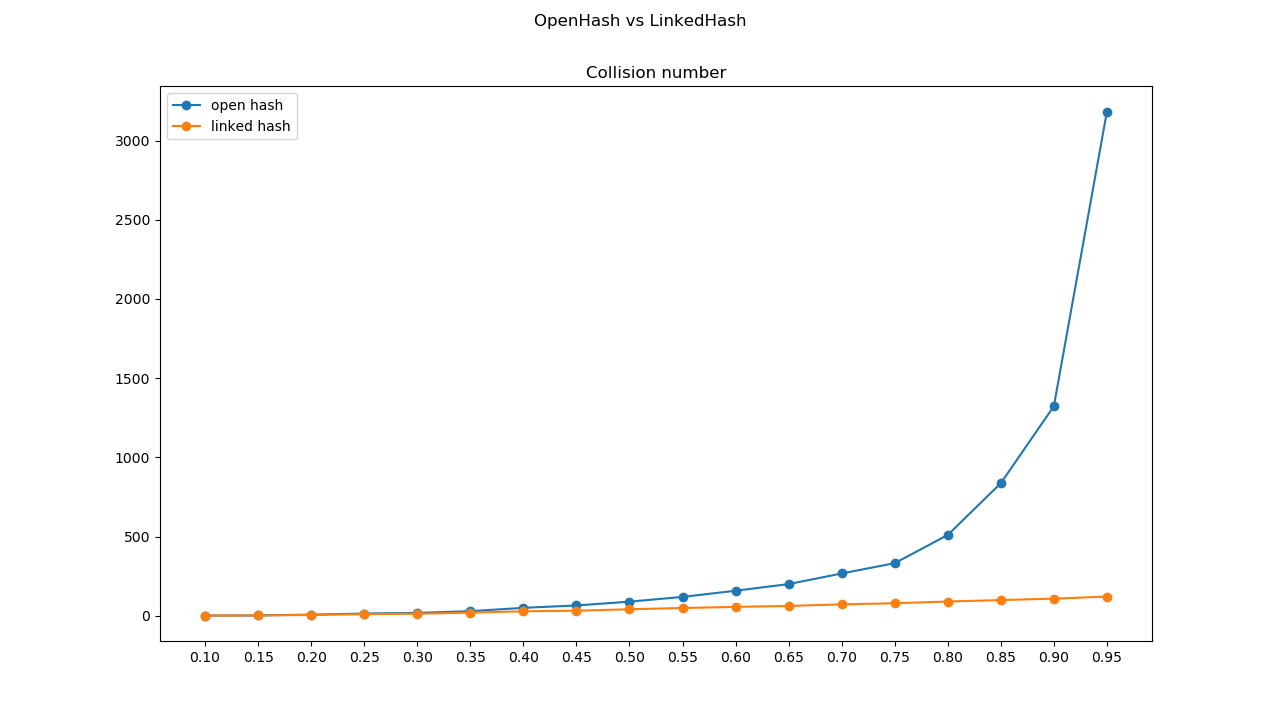
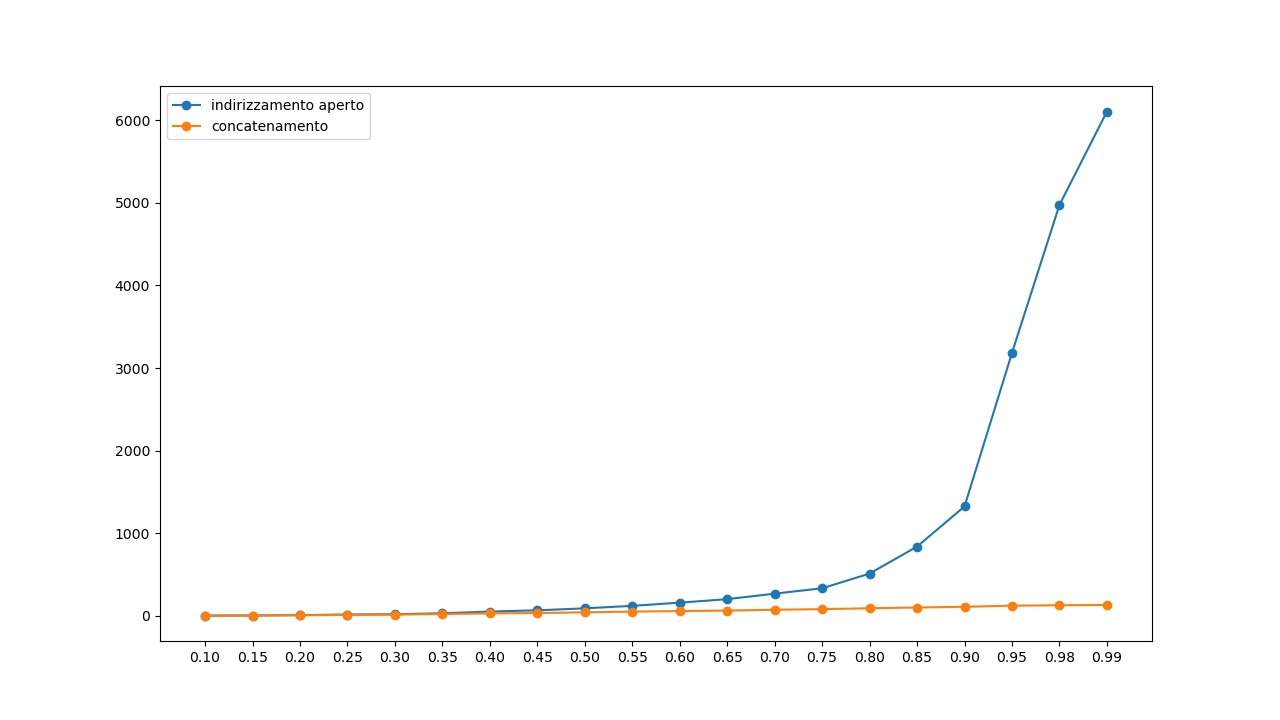
updated results

diff --git a/results/collision_test_on_19181_table.tex b/results/collision_test_on_19181_table.tex
@@ -1,24 +1,26 @@
 \begin{tabular}{lllrlr}
 \toprule
-{} &     α &  OpenHash &  HashCollision & LinkedHash &  L\_HashCollision \\
+{} &     α & Indirizzamento aperto &  N° Collisioni IA & Concatenamento &  N° Collisioni C \\
 \midrule
-0  &  0.10 &    0.0050 &            201 &     0.0046 &              151 \\
-1  &  0.15 &    0.0081 &            533 &     0.0072 &              344 \\
-2  &  0.20 &    0.0118 &           1166 &     0.0106 &              626 \\
-3  &  0.25 &    0.0169 &           2211 &     0.0116 &              943 \\
-4  &  0.30 &    0.0257 &           3887 &     0.0135 &             1344 \\
-5  &  0.35 &    0.0429 &           7074 &     0.0157 &             1798 \\
-6  &  0.40 &    0.0489 &          12798 &     0.0195 &             2300 \\
-7  &  0.45 &    0.0687 &          26850 &     0.0193 &             2844 \\
-8  &  0.50 &    0.1857 &          94351 &     0.0186 &             3407 \\
-9  &  0.55 &    6.8416 &        2981608 &     0.0209 &             3974 \\
-10 &  0.60 &   18.6687 &        8683547 &     0.0234 &             4617 \\
-11 &  0.65 &   32.6632 &       15521351 &     0.0257 &             5292 \\
-12 &  0.70 &   47.0193 &       23138011 &     0.0274 &             5998 \\
-13 &  0.75 &   64.4045 &       31663726 &     0.0301 &             6730 \\
-14 &  0.80 &   84.1123 &       41139952 &     0.0363 &             7469 \\
-15 &  0.85 &  120.4299 &       51622830 &     0.0355 &             8219 \\
-16 &  0.90 &  144.0857 &       63052463 &     0.0362 &             9012 \\
-17 &  0.95 &  172.3673 &       75218514 &     0.0386 &             9813 \\
+0  &  0.10 &                0.0060 &               201 &         0.0032 &              151 \\
+1  &  0.15 &                0.0086 &               533 &         0.0051 &              344 \\
+2  &  0.20 &                0.0114 &              1166 &         0.0069 &              626 \\
+3  &  0.25 &                0.0143 &              2211 &         0.0089 &              943 \\
+4  &  0.30 &                0.0175 &              3887 &         0.0098 &             1344 \\
+5  &  0.35 &                0.0258 &              7074 &         0.0115 &             1798 \\
+6  &  0.40 &                0.0381 &             12798 &         0.0319 &             2300 \\
+7  &  0.45 &                0.0647 &             26850 &         0.0247 &             2844 \\
+8  &  0.50 &                0.1819 &             94351 &         0.0192 &             3407 \\
+9  &  0.55 &                5.4864 &           2981608 &         0.0207 &             3974 \\
+10 &  0.60 &               16.3753 &           8683547 &         0.0224 &             4617 \\
+11 &  0.65 &               28.7859 &          15521351 &         0.0243 &             5292 \\
+12 &  0.70 &               42.5940 &          23138011 &         0.0263 &             5998 \\
+13 &  0.75 &               58.0455 &          31663726 &         0.0277 &             6730 \\
+14 &  0.80 &               76.0238 &          41139952 &         0.0293 &             7469 \\
+15 &  0.85 &              100.3751 &          51622830 &         0.0308 &             8219 \\
+16 &  0.90 &              126.2128 &          63052463 &         0.0331 &             9012 \\
+17 &  0.95 &              145.4570 &          75218514 &         0.0389 &             9813 \\
+18 &  0.98 &              157.1385 &          82845119 &         0.0377 &            10305 \\
+19 &  0.99 &              165.9547 &          85540842 &         0.0371 &            10467 \\
 \bottomrule
 \end{tabular}

diff --git a/results/collision_test_on_14011_table.tex b/results/collision_test_on_14011_table.tex
@@ -1,24 +1,26 @@
 \begin{tabular}{lllrlr}
 \toprule
-{} &     α & OpenHash &  HashCollision & LinkedHash &  L\_HashCollision \\
+{} &     α & Indirizzamento aperto &  N° Collisioni IA & Concatenamento &  N° Collisioni C \\
 \midrule
-0  &  0.10 &   0.0032 &            111 &     0.0026 &               96 \\
-1  &  0.15 &   0.0050 &            284 &     0.0038 &              216 \\
-2  &  0.20 &   0.0071 &            553 &     0.0050 &              365 \\
-3  &  0.25 &   0.0095 &            949 &     0.0060 &              544 \\
-4  &  0.30 &   0.0139 &           1618 &     0.0073 &              768 \\
-5  &  0.35 &   0.0181 &           2478 &     0.0086 &             1024 \\
-6  &  0.40 &   0.0187 &           3600 &     0.0099 &             1302 \\
-7  &  0.45 &   0.0290 &           5323 &     0.0114 &             1610 \\
-8  &  0.50 &   0.0286 &           8274 &     0.0127 &             1976 \\
-9  &  0.55 &   0.0422 &          13416 &     0.0141 &             2338 \\
-10 &  0.60 &   0.0604 &          22101 &     0.0186 &             2726 \\
-11 &  0.65 &   0.1294 &          49994 &     0.0251 &             3151 \\
-12 &  0.70 &   0.4499 &         189482 &     0.0213 &             3551 \\
-13 &  0.75 &   4.9022 &        2501193 &     0.0201 &             3995 \\
-14 &  0.80 &  12.9370 &        6635563 &     0.0215 &             4454 \\
-15 &  0.85 &  22.1288 &       11310439 &     0.0231 &             4924 \\
-16 &  0.90 &  32.5506 &       16369125 &     0.0244 &             5428 \\
-17 &  0.95 &  45.4622 &       21880190 &     0.0260 &             5952 \\
+0  &  0.10 &                0.0031 &               111 &         0.0023 &               96 \\
+1  &  0.15 &                0.0071 &               284 &         0.0034 &              216 \\
+2  &  0.20 &                0.0111 &               553 &         0.0045 &              365 \\
+3  &  0.25 &                0.0138 &               949 &         0.0057 &              544 \\
+4  &  0.30 &                0.0158 &              1618 &         0.0070 &              768 \\
+5  &  0.35 &                0.0158 &              2478 &         0.0083 &             1024 \\
+6  &  0.40 &                0.0171 &              3600 &         0.0095 &             1302 \\
+7  &  0.45 &                0.0208 &              5323 &         0.0109 &             1610 \\
+8  &  0.50 &                0.0275 &              8274 &         0.0122 &             1976 \\
+9  &  0.55 &                0.0378 &             13416 &         0.0136 &             2338 \\
+10 &  0.60 &                0.0540 &             22101 &         0.0150 &             2726 \\
+11 &  0.65 &                0.1032 &             49994 &         0.0164 &             3151 \\
+12 &  0.70 &                0.3913 &            189482 &         0.0177 &             3551 \\
+13 &  0.75 &                4.5823 &           2501193 &         0.0195 &             3995 \\
+14 &  0.80 &               12.4437 &           6635563 &         0.0208 &             4454 \\
+15 &  0.85 &               21.0835 &          11310439 &         0.0219 &             4924 \\
+16 &  0.90 &               31.1391 &          16369125 &         0.0234 &             5428 \\
+17 &  0.95 &               41.0727 &          21880190 &         0.0246 &             5952 \\
+18 &  0.98 &               47.4780 &          25521349 &         0.0255 &             6251 \\
+19 &  0.99 &               48.9232 &          26778133 &         0.0258 &             6359 \\
 \bottomrule
 \end{tabular}

diff --git a/results/collision_test_on_1499_table.tex b/results/collision_test_on_1499_table.tex
@@ -1,24 +1,26 @@
 \begin{tabular}{lllrlr}
 \toprule
-{} &     α & OpenHash &  HashCollision & LinkedHash &  L\_HashCollision \\
+{} &     α & Indirizzamento aperto &  N° Collisioni IA & Concatenamento &  N° Collisioni C \\
 \midrule
-0  &  0.10 &   0.0007 &             10 &     0.0003 &                7 \\
-1  &  0.15 &   0.0010 &             28 &     0.0004 &               18 \\
-2  &  0.20 &   0.0015 &             52 &     0.0005 &               34 \\
-3  &  0.25 &   0.0018 &             72 &     0.0006 &               47 \\
-4  &  0.30 &   0.0023 &            103 &     0.0007 &               61 \\
-5  &  0.35 &   0.0028 &            154 &     0.0009 &               83 \\
-6  &  0.40 &   0.0033 &            200 &     0.0010 &              105 \\
-7  &  0.45 &   0.0037 &            273 &     0.0011 &              129 \\
-8  &  0.50 &   0.0043 &            382 &     0.0013 &              156 \\
-9  &  0.55 &   0.0048 &            501 &     0.0014 &              187 \\
-10 &  0.60 &   0.0054 &            703 &     0.0016 &              218 \\
-11 &  0.65 &   0.0057 &            937 &     0.0017 &              254 \\
-12 &  0.70 &   0.0065 &           1336 &     0.0019 &              289 \\
-13 &  0.75 &   0.0077 &           1942 &     0.0020 &              332 \\
-14 &  0.80 &   0.0090 &           2730 &     0.0022 &              369 \\
-15 &  0.85 &   0.0104 &           3747 &     0.0023 &              412 \\
-16 &  0.90 &   0.0131 &           5673 &     0.0025 &              462 \\
-17 &  0.95 &   0.0235 &          11831 &     0.0026 &              508 \\
+0  &  0.10 &                0.0004 &                10 &         0.0003 &                7 \\
+1  &  0.15 &                0.0005 &                28 &         0.0004 &               18 \\
+2  &  0.20 &                0.0007 &                52 &         0.0005 &               34 \\
+3  &  0.25 &                0.0012 &                72 &         0.0006 &               47 \\
+4  &  0.30 &                0.0015 &               103 &         0.0007 &               61 \\
+5  &  0.35 &                0.0019 &               154 &         0.0008 &               83 \\
+6  &  0.40 &                0.0022 &               200 &         0.0010 &              105 \\
+7  &  0.45 &                0.0026 &               273 &         0.0011 &              129 \\
+8  &  0.50 &                0.0031 &               382 &         0.0012 &              156 \\
+9  &  0.55 &                0.0031 &               501 &         0.0014 &              187 \\
+10 &  0.60 &                0.0036 &               703 &         0.0016 &              218 \\
+11 &  0.65 &                0.0053 &               937 &         0.0017 &              254 \\
+12 &  0.70 &                0.0055 &              1336 &         0.0018 &              289 \\
+13 &  0.75 &                0.0093 &              1942 &         0.0019 &              332 \\
+14 &  0.80 &                0.0105 &              2730 &         0.0021 &              369 \\
+15 &  0.85 &                0.0089 &              3747 &         0.0022 &              412 \\
+16 &  0.90 &                0.0134 &              5673 &         0.0024 &              462 \\
+17 &  0.95 &                0.0263 &             11831 &         0.0025 &              508 \\
+18 &  0.98 &                0.0520 &             26479 &         0.0026 &              546 \\
+19 &  0.99 &                0.0639 &             34464 &         0.0036 &              555 \\
 \bottomrule
 \end{tabular}

diff --git a/results/collision_test_on_3733_table.tex b/results/collision_test_on_3733_table.tex
@@ -1,24 +1,26 @@
 \begin{tabular}{lllrlr}
 \toprule
-{} &     α & OpenHash &  HashCollision & LinkedHash &  L\_HashCollision \\
+{} &     α & Indirizzamento aperto &  N° Collisioni IA & Concatenamento &  N° Collisioni C \\
 \midrule
-0  &  0.10 &   0.0018 &             14 &     0.0006 &               11 \\
-1  &  0.15 &   0.0028 &             42 &     0.0020 &               34 \\
-2  &  0.20 &   0.0036 &             91 &     0.0026 &               69 \\
-3  &  0.25 &   0.0039 &            178 &     0.0033 &              109 \\
-4  &  0.30 &   0.0049 &            273 &     0.0035 &              163 \\
-5  &  0.35 &   0.0056 &            404 &     0.0038 &              223 \\
-6  &  0.40 &   0.0059 &            558 &     0.0042 &              288 \\
-7  &  0.45 &   0.0065 &            768 &     0.0044 &              344 \\
-8  &  0.50 &   0.0073 &           1042 &     0.0047 &              414 \\
-9  &  0.55 &   0.0080 &           1428 &     0.0049 &              498 \\
-10 &  0.60 &   0.0088 &           1967 &     0.0051 &              580 \\
-11 &  0.65 &   0.0095 &           2513 &     0.0053 &              653 \\
-12 &  0.70 &   0.0119 &           3600 &     0.0054 &              746 \\
-13 &  0.75 &   0.0285 &           5284 &     0.0055 &              838 \\
-14 &  0.80 &   0.0287 &           8209 &     0.0056 &              937 \\
-15 &  0.85 &   0.0363 &          16152 &     0.0057 &             1037 \\
-16 &  0.90 &   0.1271 &          68833 &     0.0060 &             1143 \\
-17 &  0.95 &   0.4833 &         226944 &     0.0063 &             1253 \\
+0  &  0.10 &                0.0007 &                14 &         0.0006 &               11 \\
+1  &  0.15 &                0.0011 &                42 &         0.0009 &               34 \\
+2  &  0.20 &                0.0023 &                91 &         0.0012 &               69 \\
+3  &  0.25 &                0.0025 &               178 &         0.0015 &              109 \\
+4  &  0.30 &                0.0040 &               273 &         0.0018 &              163 \\
+5  &  0.35 &                0.0031 &               404 &         0.0022 &              223 \\
+6  &  0.40 &                0.0037 &               558 &         0.0025 &              288 \\
+7  &  0.45 &                0.0048 &               768 &         0.0029 &              344 \\
+8  &  0.50 &                0.0060 &              1042 &         0.0032 &              414 \\
+9  &  0.55 &                0.0064 &              1428 &         0.0035 &              498 \\
+10 &  0.60 &                0.0079 &              1967 &         0.0039 &              580 \\
+11 &  0.65 &                0.0090 &              2513 &         0.0042 &              653 \\
+12 &  0.70 &                0.0112 &              3600 &         0.0046 &              746 \\
+13 &  0.75 &                0.0145 &              5284 &         0.0049 &              838 \\
+14 &  0.80 &                0.0199 &              8209 &         0.0053 &              937 \\
+15 &  0.85 &                0.0341 &             16152 &         0.0057 &             1037 \\
+16 &  0.90 &                0.1275 &             68833 &         0.0060 &             1143 \\
+17 &  0.95 &                0.4219 &            226944 &         0.0063 &             1253 \\
+18 &  0.98 &                0.7110 &            395265 &         0.0066 &             1334 \\
+19 &  0.99 &                0.8944 &            480421 &         0.0066 &             1357 \\
 \bottomrule
 \end{tabular}

diff --git a/results/collision_test_on_373_table.tex b/results/collision_test_on_373_table.tex
@@ -1,24 +1,26 @@
 \begin{tabular}{lllrlr}
 \toprule
-{} &     α & OpenHash &  HashCollision & LinkedHash &  L\_HashCollision \\
+{} &     α & Indirizzamento aperto &  N° Collisioni IA & Concatenamento &  N° Collisioni C \\
 \midrule
-0  &  0.10 &   0.0001 &              1 &     0.0001 &                1 \\
-1  &  0.15 &   0.0001 &              2 &     0.0001 &                2 \\
-2  &  0.20 &   0.0003 &              7 &     0.0001 &                5 \\
-3  &  0.25 &   0.0003 &             14 &     0.0002 &               10 \\
-4  &  0.30 &   0.0003 &             18 &     0.0004 &               13 \\
-5  &  0.35 &   0.0004 &             29 &     0.0005 &               20 \\
-6  &  0.40 &   0.0005 &             50 &     0.0004 &               28 \\
-7  &  0.45 &   0.0006 &             65 &     0.0003 &               32 \\
-8  &  0.50 &   0.0007 &             89 &     0.0003 &               41 \\
-9  &  0.55 &   0.0008 &            119 &     0.0004 &               49 \\
-10 &  0.60 &   0.0009 &            158 &     0.0004 &               56 \\
-11 &  0.65 &   0.0011 &            200 &     0.0005 &               62 \\
-12 &  0.70 &   0.0013 &            267 &     0.0005 &               72 \\
-13 &  0.75 &   0.0015 &            332 &     0.0005 &               79 \\
-14 &  0.80 &   0.0020 &            510 &     0.0006 &               90 \\
-15 &  0.85 &   0.0031 &            837 &     0.0006 &               99 \\
-16 &  0.90 &   0.0045 &           1323 &     0.0007 &              108 \\
-17 &  0.95 &   0.0077 &           3183 &     0.0008 &              121 \\
+0  &  0.10 &                0.0001 &                 1 &         0.0001 &                1 \\
+1  &  0.15 &                0.0001 &                 2 &         0.0001 &                2 \\
+2  &  0.20 &                0.0002 &                 7 &         0.0001 &                5 \\
+3  &  0.25 &                0.0003 &                14 &         0.0002 &               10 \\
+4  &  0.30 &                0.0003 &                18 &         0.0002 &               13 \\
+5  &  0.35 &                0.0004 &                29 &         0.0003 &               20 \\
+6  &  0.40 &                0.0004 &                50 &         0.0003 &               28 \\
+7  &  0.45 &                0.0005 &                65 &         0.0003 &               32 \\
+8  &  0.50 &                0.0006 &                89 &         0.0004 &               41 \\
+9  &  0.55 &                0.0007 &               119 &         0.0004 &               49 \\
+10 &  0.60 &                0.0008 &               158 &         0.0005 &               56 \\
+11 &  0.65 &                0.0012 &               200 &         0.0005 &               62 \\
+12 &  0.70 &                0.0012 &               267 &         0.0006 &               72 \\
+13 &  0.75 &                0.0013 &               332 &         0.0006 &               79 \\
+14 &  0.80 &                0.0020 &               510 &         0.0006 &               90 \\
+15 &  0.85 &                0.0031 &               837 &         0.0007 &               99 \\
+16 &  0.90 &                0.0037 &              1323 &         0.0007 &              108 \\
+17 &  0.95 &                0.0076 &              3183 &         0.0008 &              121 \\
+18 &  0.98 &                0.0115 &              4975 &         0.0008 &              126 \\
+19 &  0.99 &                0.0131 &              6106 &         0.0008 &              130 \\
 \bottomrule
 \end{tabular}

diff --git a/results/collision_test_on_6277_table.tex b/results/collision_test_on_6277_table.tex
@@ -1,24 +1,26 @@
 \begin{tabular}{lllrlr}
 \toprule
-{} &     α & OpenHash &  HashCollision & LinkedHash &  L\_HashCollision \\
+{} &     α & Indirizzamento aperto &  N° Collisioni IA & Concatenamento &  N° Collisioni C \\
 \midrule
-0  &  0.10 &   0.0025 &             29 &     0.0011 &               27 \\
-1  &  0.15 &   0.0039 &             90 &     0.0015 &               74 \\
-2  &  0.20 &   0.0050 &            171 &     0.0020 &              132 \\
-3  &  0.25 &   0.0060 &            288 &     0.0026 &              198 \\
-4  &  0.30 &   0.0066 &            462 &     0.0032 &              273 \\
-5  &  0.35 &   0.0075 &            671 &     0.0038 &              366 \\
-6  &  0.40 &   0.0084 &            974 &     0.0044 &              484 \\
-7  &  0.45 &   0.0093 &           1406 &     0.0048 &              598 \\
-8  &  0.50 &   0.0104 &           2068 &     0.0054 &              733 \\
-9  &  0.55 &   0.0117 &           2980 &     0.0060 &              868 \\
-10 &  0.60 &   0.0149 &           4491 &     0.0065 &             1016 \\
-11 &  0.65 &   0.0194 &           6632 &     0.0072 &             1166 \\
-12 &  0.70 &   0.0307 &          12794 &     0.0078 &             1334 \\
-13 &  0.75 &   0.0657 &          32409 &     0.0083 &             1498 \\
-14 &  0.80 &   0.4368 &         220560 &     0.0090 &             1675 \\
-15 &  0.85 &   1.2223 &         648337 &     0.0097 &             1869 \\
-16 &  0.90 &   2.6146 &        1253063 &     0.0105 &             2052 \\
-17 &  0.95 &   3.8175 &        2085000 &     0.0110 &             2240 \\
+0  &  0.10 &                0.0014 &                29 &         0.0010 &               27 \\
+1  &  0.15 &                0.0021 &                90 &         0.0015 &               74 \\
+2  &  0.20 &                0.0029 &               171 &         0.0020 &              132 \\
+3  &  0.25 &                0.0051 &               288 &         0.0026 &              198 \\
+4  &  0.30 &                0.0050 &               462 &         0.0031 &              273 \\
+5  &  0.35 &                0.0059 &               671 &         0.0036 &              366 \\
+6  &  0.40 &                0.0075 &               974 &         0.0042 &              484 \\
+7  &  0.45 &                0.0077 &              1406 &         0.0048 &              598 \\
+8  &  0.50 &                0.0095 &              2068 &         0.0056 &              733 \\
+9  &  0.55 &                0.0117 &              2980 &         0.0059 &              868 \\
+10 &  0.60 &                0.0149 &              4491 &         0.0065 &             1016 \\
+11 &  0.65 &                0.0193 &              6632 &         0.0071 &             1166 \\
+12 &  0.70 &                0.0307 &             12794 &         0.0076 &             1334 \\
+13 &  0.75 &                0.0655 &             32409 &         0.0083 &             1498 \\
+14 &  0.80 &                0.4170 &            220560 &         0.0089 &             1675 \\
+15 &  0.85 &                1.3634 &            648337 &         0.0095 &             1869 \\
+16 &  0.90 &                2.3623 &           1253063 &         0.0101 &             2052 \\
+17 &  0.95 &                3.9048 &           2085000 &         0.0108 &             2240 \\
+18 &  0.98 &                5.0256 &           2660369 &         0.0111 &             2366 \\
+19 &  0.99 &                5.6830 &           2891845 &         0.0113 &             2405 \\
 \bottomrule
 \end{tabular}

diff --git a/results/collision_test_on_7603_table.tex b/results/collision_test_on_7603_table.tex
@@ -1,24 +1,26 @@
 \begin{tabular}{lllrlr}
 \toprule
-{} &     α & OpenHash &  HashCollision & LinkedHash &  L\_HashCollision \\
+{} &     α & Indirizzamento aperto &  N° Collisioni IA & Concatenamento &  N° Collisioni C \\
 \midrule
-0  &  0.10 &   0.0016 &             31 &     0.0016 &               28 \\
-1  &  0.15 &   0.0025 &            121 &     0.0019 &               92 \\
-2  &  0.20 &   0.0075 &            227 &     0.0025 &              151 \\
-3  &  0.25 &   0.0101 &            419 &     0.0032 &              232 \\
-4  &  0.30 &   0.0123 &            643 &     0.0038 &              333 \\
-5  &  0.35 &   0.0130 &            962 &     0.0045 &              431 \\
-6  &  0.40 &   0.0139 &           1442 &     0.0051 &              567 \\
-7  &  0.45 &   0.0138 &           2065 &     0.0058 &              703 \\
-8  &  0.50 &   0.0154 &           3307 &     0.0065 &              853 \\
-9  &  0.55 &   0.0179 &           5430 &     0.0072 &             1019 \\
-10 &  0.60 &   0.0497 &          10769 &     0.0080 &             1216 \\
-11 &  0.65 &   0.1100 &          49333 &     0.0088 &             1397 \\
-12 &  0.70 &   0.6001 &         313463 &     0.0114 &             1605 \\
-13 &  0.75 &   1.2552 &         658540 &     0.0192 &             1808 \\
-14 &  0.80 &   2.1229 &        1083730 &     0.0157 &             2011 \\
-15 &  0.85 &   3.3852 &        1668944 &     0.0141 &             2228 \\
-16 &  0.90 &   5.2105 &        2461879 &     0.0130 &             2463 \\
-17 &  0.95 &   7.0614 &        3529115 &     0.0134 &             2693 \\
+0  &  0.10 &                0.0016 &                31 &         0.0013 &               28 \\
+1  &  0.15 &                0.0024 &               121 &         0.0018 &               92 \\
+2  &  0.20 &                0.0034 &               227 &         0.0024 &              151 \\
+3  &  0.25 &                0.0045 &               419 &         0.0031 &              232 \\
+4  &  0.30 &                0.0056 &               643 &         0.0037 &              333 \\
+5  &  0.35 &                0.0067 &               962 &         0.0044 &              431 \\
+6  &  0.40 &                0.0084 &              1442 &         0.0050 &              567 \\
+7  &  0.45 &                0.0099 &              2065 &         0.0057 &              703 \\
+8  &  0.50 &                0.0128 &              3307 &         0.0064 &              853 \\
+9  &  0.55 &                0.0172 &              5430 &         0.0072 &             1019 \\
+10 &  0.60 &                0.0273 &             10769 &         0.0078 &             1216 \\
+11 &  0.65 &                0.0958 &             49333 &         0.0086 &             1397 \\
+12 &  0.70 &                0.5623 &            313463 &         0.0093 &             1605 \\
+13 &  0.75 &                1.2013 &            658540 &         0.0100 &             1808 \\
+14 &  0.80 &                1.9740 &           1083730 &         0.0107 &             2011 \\
+15 &  0.85 &                3.1022 &           1668944 &         0.0114 &             2228 \\
+16 &  0.90 &                4.4616 &           2461879 &         0.0122 &             2463 \\
+17 &  0.95 &                6.5399 &           3529115 &         0.0131 &             2693 \\
+18 &  0.98 &                8.0913 &           4339501 &         0.0135 &             2836 \\
+19 &  0.99 &                8.6042 &           4649488 &         0.0136 &             2893 \\
 \bottomrule
 \end{tabular}

diff --git a/performance_test.py b/performance_test.py
@@ -10,7 +10,7 @@ import pickle
 
 
 def insert_test(m):
-	print("Hash table with m = " + str(m))
+	print("Tabella hash di dimensione m = " + str(m))
 	# Init hash tabels
 	hash = OpenHash.OpenHash(m)
 	l_hash = LinkedHash.LinkedHash(m)
@@ -19,12 +19,14 @@ def insert_test(m):
 	# Attach to observe CollisionCounter
 	hash.attach(collision_counter)
 	l_hash.attach(l_collision_counter)
-	df = pd.DataFrame(columns = ['α','OpenHash', 'HashCollision', 'LinkedHash', 'L_HashCollision'])
+	df = pd.DataFrame(columns = ['α','Indirizzamento aperto', 'N° Collisioni IA', 'Concatenamento', 'N° Collisioni C'])
 	charge_factor = []
 	alpha = 0.1
 	while alpha <= 1:
 		charge_factor.append('%.2f'%alpha)
 		alpha += 0.05
+	charge_factor.append('0.98')
+	charge_factor.append('0.99')
 	df["α"] = charge_factor
 	collisions = []
 	l_collisions = []
@@ -64,24 +66,34 @@ def insert_test(m):
 		l_collisions.append(l_collision_counter.get_collision())
 		l_collision_counter.reset_counter()
 		l_hash.empty_table()
-	df["OpenHash"] = elapsed
-	df["LinkedHash"] = l_elapsed
-	df["HashCollision"] = collisions
-	df["L_HashCollision"] = l_collisions
+	df['Indirizzamento aperto'] = elapsed
+	df['Concatenamento'] = l_elapsed
+	df['N° Collisioni IA'] = collisions
+	df['N° Collisioni C'] = l_collisions
 	print(df)
-	plt.xlabel("Charging factor α")
-	plt.ylabel("Number of collisions")
+	plt.xlabel("Fattore di caricamento α")
+	plt.ylabel("Numero di collisioni")
 	plt.figure(figsize=(12.80, 7.2))
 	plt.plot(df["α"], collisions, marker="o")
 	plt.plot(df["α"], l_collisions, marker="o")
-	plt.legend(['open hash', 'linked hash'], loc='upper left')
-	plt.title("Collision number")
-	plt.suptitle("OpenHash vs LinkedHash")
+	plt.legend(['indirizzamento aperto', 'concatenamento'], loc='upper left')
+	# plt.title("Collision number")
+	# plt.suptitle("OpenHash vs LinkedHash")
 	namefile = "collision_test_on_" + str(m) + "_table"
 	plt.savefig('figures/' + namefile + ".png")
 	plt.clf()
 	df.to_latex("results/" + namefile + ".tex")
-
+	list_len = len(df['N° Collisioni C'])
+	# avg_insert_time = 1.5269999999985018e-06
+	straight_line_x = [df['N° Collisioni C'][0], df['N° Collisioni C'][list_len-1]]
+	straight_line_y = [df['Concatenamento'][0], df['Concatenamento'][list_len-1]]
+	# straight_line_x = [0, avg_insert_time * m * 0.99]
+	# straight_line_y = [0, avg_insert_time * m * 0.99]
+	plt.xlabel('Numero collisioni')
+	plt.ylabel('Tempo inserimento')
+	plt.plot(df['N° Collisioni C'], df['Concatenamento'], marker="o")
+	plt.plot(straight_line_x, straight_line_y)
+	plt.savefig('tmp/' + namefile + ".png")
 
 '''
 This function generate values for evaluate the insert test
